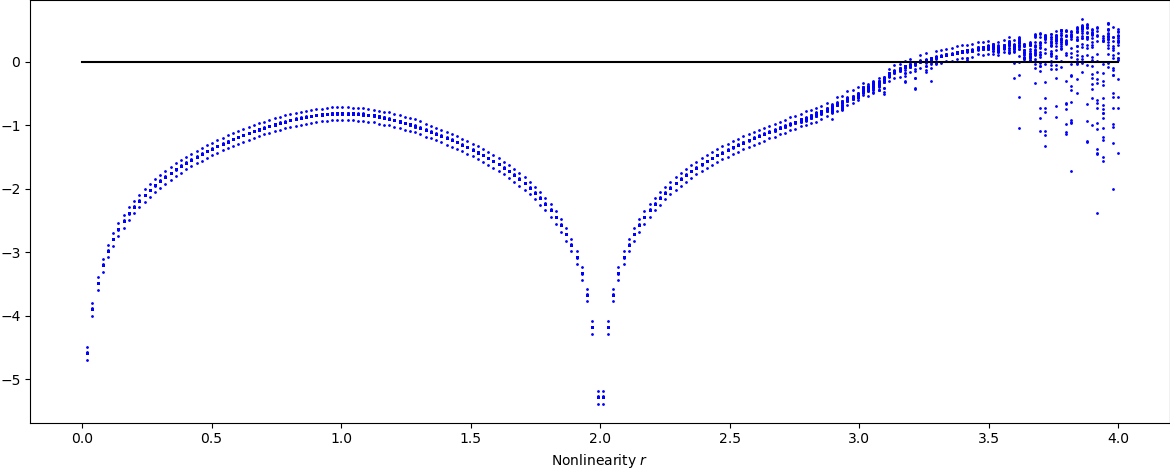
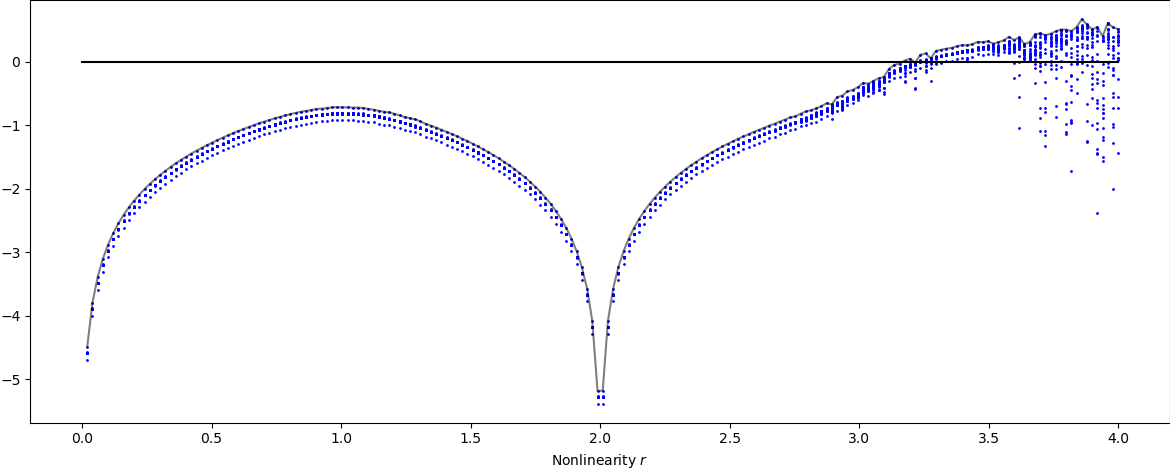
plot envelope

diff --git a/logistic_2d_lyapunov.py b/logistic_2d_lyapunov.py
@@ -42,6 +42,8 @@ spectra = np.array(spectra)
 fig, ax = plt.subplots(figsize=(12, 5))
 for i in range(spectra.shape[1]):
 	ax.scatter(r_set, spectra[:,i], color='blue', s=1)
+envelope = spectra.max(axis=1)
+ax.plot(r_set, envelope, color='black', alpha=0.5)
 ax.plot(r_set, np.zeros_like(r_set), color='black')
 ax.set_xlabel('Nonlinearity $r$')
 
@@ -71,6 +73,8 @@ spectra = np.array(spectra)
 fig, ax = plt.subplots(figsize=(12, 5))
 for i in range(spectra.shape[1]):
 	ax.scatter(eps_set, spectra[:,i], color='blue', s=1)
+envelope = spectra.max(axis=1)
+ax.plot(eps_set, envelope, color='black', alpha=0.5)
 ax.plot(eps_set, np.zeros_like(eps_set), color='black')
 ax.set_xlabel('Coupling constant $\\varepsilon$')
 
